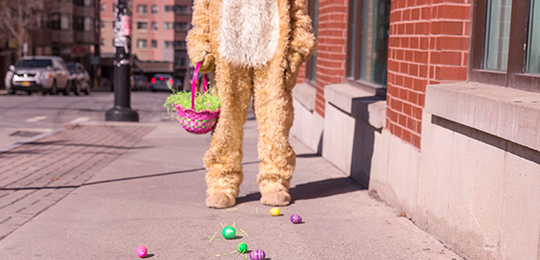
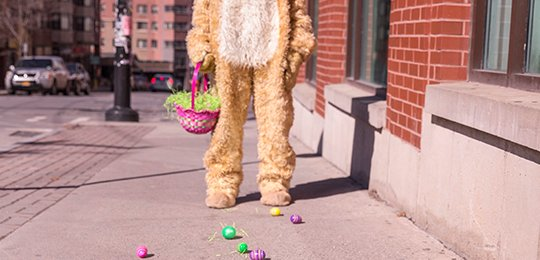
optimized img

diff --git a/afrodyta_template/style/style.css b/afrodyta_template/style/style.css
@@ -55,7 +55,7 @@ header{
     padding-right: 0rem;
 }
 .banner{
-    background: url("../images/banner.jpg");
+    background: url("../images/Banner.jpg");
     background-size: cover; 
     padding: 163px 0 179px;
     margin-top: 46px;
